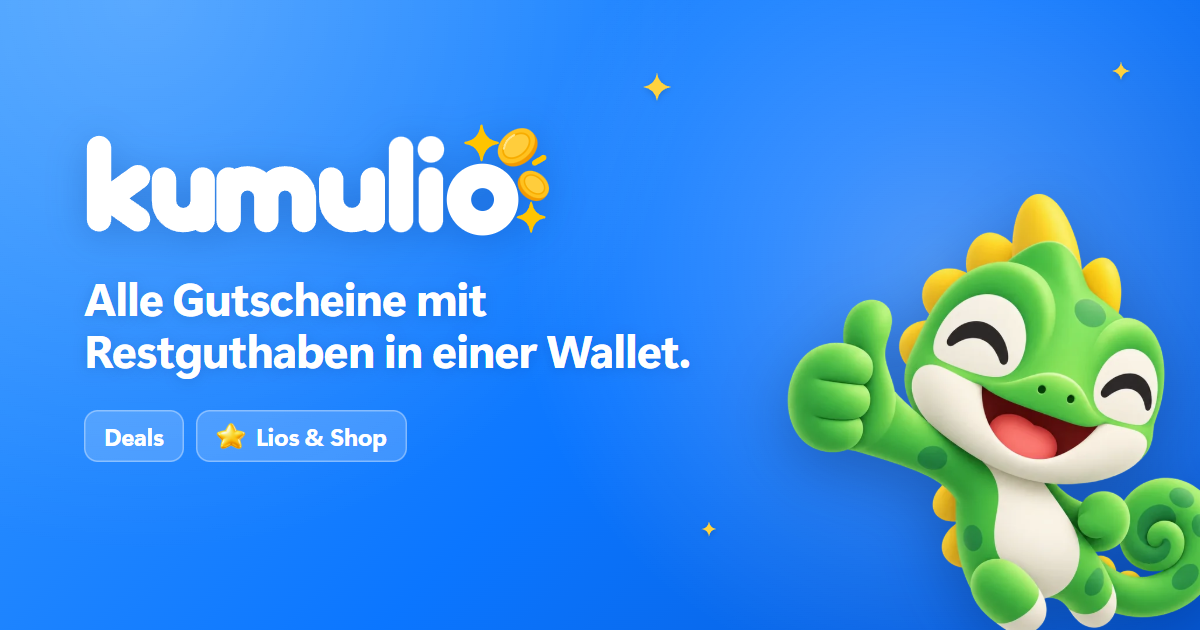
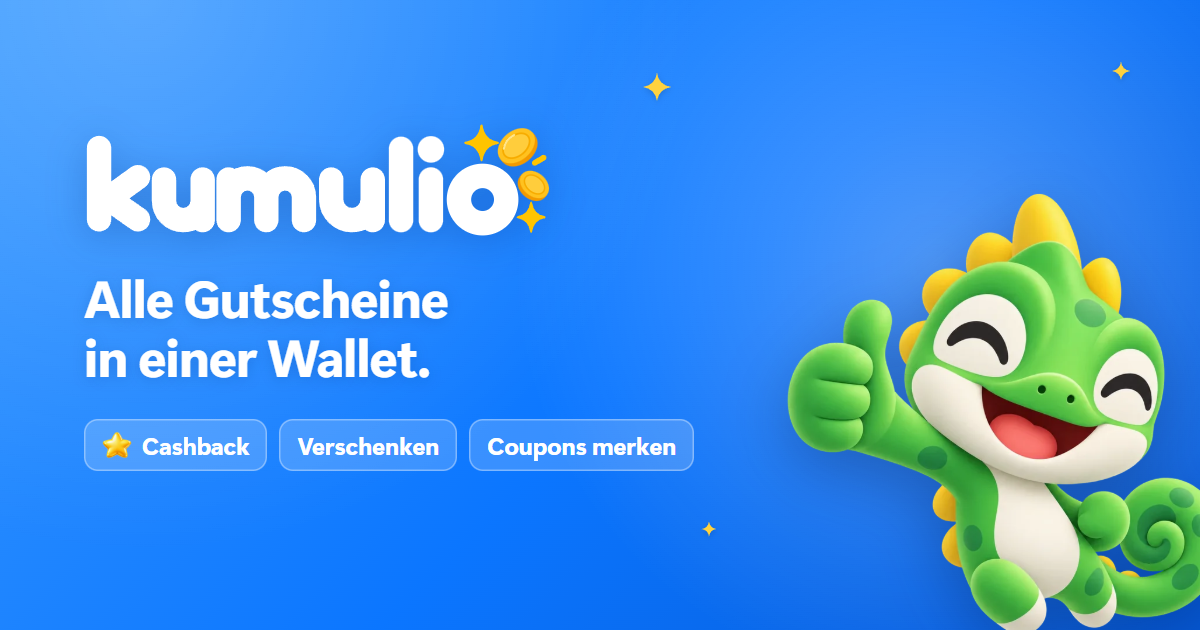
Burger-King-Coupons gross in der App; "Restguthaben" raus aus den Texten
- BK-PDF: in der installierten App oeffnete der Link die PDF in der App,
  ohne Schliessen-Knopf, und Zurueckwischen lud die App neu (Meldung eines
  Nutzers). Jetzt oeffnen die Seiten im Bildbetrachter der App (zoombar,
  X). Die PDF gibt es daneben: in der App ueber Teilen (sichern, drucken),
  im Browser in einem neuen Tab.
- "mit Restguthaben" versteht keiner (Nutzer): raus aus Vorschau, Texten,
  Einfuehrung und Einladung. Stattdessen: alle Gutscheine in einer Wallet,
  Cashback in Lios, Verschenken an Freunde, Coupons merken. Nach dem
  Abbuchen steht "Noch drauf: X €". Neues Vorschaubild og-kumulio-2.jpg.

Changed region(s): [[0.0617, 0.4222, 0.5858, 0.6032], [0.0617, 0.6333, 0.5858, 0.754]]

diff --git a/public/app.js b/public/app.js
@@ -4212,8 +4212,9 @@ function maybeShowOnboarding() {
     $('#ob-step').innerHTML = introFensterHtml('Schön, dass du da bist.', 'Das kann kumulio:')
       + introPunkteHtml([
         ['deals', 'Deals, die sich lohnen', 'Handverlesene Angebote und Preisfehler, ohne Deal-Spam.'],
-        ['wallet', 'Deine Gutschein-Wallet', 'Restguthaben, Code und PIN immer griffbereit.'],
-        ['message', 'Mit Freunden', 'Deals weiterschicken und zusammen sparen.'],
+        ['wallet', 'Alle Gutscheine in einer Wallet', 'Code und PIN immer griffbereit, abbuchen mit einem Tipp.'],
+        ['gift', 'Verschenken an Freunde', 'Gutscheine weitergeben, Coupons merken und teilen.'],
+        ['star', 'Lios und Cashback', 'Jeden Tag Lios sammeln und im Shop gegen Gutscheine tauschen.'],
       ]);
     $('#ob-extra').innerHTML = '';
     const next = $('#ob-next');
@@ -9030,7 +9031,7 @@ function gutscheinBuchen(seite, sign, amt, note) {
   }
   showToast({
     title: sign < 0 ? 'Abbuchung gespeichert' : 'Aufladung gespeichert',
-    text: `Restguthaben: ${euroFmt(v.balance)}`,
+    text: `Noch drauf: ${euroFmt(v.balance)}`,
     success: true,
   }, 3500);
   return '';
@@ -9943,17 +9944,67 @@ function bkPdfBlockHtml(d = bkDaten) {
       ${quelle}</section>`;
   }
   const seiten = (d.seiten || []).slice(0, 4);
+  // Die Seiten oeffnen in der App gross (zoombar, mit X) — nie die PDF selbst:
+  // in der installierten App (iPhone) oeffnete ein Link auf die PDF sie IN der
+  // App, ohne Schliessen-Knopf, und Zurueckwischen lud die App neu (Meldung
+  // eines Nutzers). Die PDF gibt es daneben zum Sichern oder Drucken: in der
+  // App ueber Teilen, im Browser in einem neuen Tab.
   return `<section class="bk-pdf" aria-label="Burger-King-Coupons zum Ausdrucken">
     ${kopf(d.gueltigBis ? `gültig bis ${bkDatum(d.gueltigBis)}` : 'aktuelle Ausgabe')}
     ${seiten.length ? `
-    <a class="bk-pdf-seiten${seiten.length > 1 ? ' mehrere' : ''}" href="${esc(pdf)}" target="_blank" rel="noopener" aria-label="PDF mit den Coupons öffnen">
-      ${seiten.map(s => `<img src="${API_BASE}/bk-coupons/seite-${s.n}${v}" width="${s.w}" height="${s.h}" alt="Seite ${s.n} der Burger-King-Coupons"
-        loading="lazy" decoding="async" style="aspect-ratio:${s.w} / ${s.h}">`).join('')}
-    </a>` : ''}
-    <a class="gd-los bk-pdf-knopf" href="${esc(pdf)}" target="_blank" rel="noopener">PDF ansehen</a>
+    <div class="bk-pdf-seiten${seiten.length > 1 ? ' mehrere' : ''}">
+      ${seiten.map(s => `<button class="bk-pdf-seite" type="button" data-bk-seite aria-label="Seite ${s.n} der Coupons groß ansehen"><img src="${API_BASE}/bk-coupons/seite-${s.n}${v}" width="${s.w}" height="${s.h}" alt=""
+        loading="lazy" decoding="async" style="aspect-ratio:${s.w} / ${s.h}"></button>`).join('')}
+    </div>
+    <button class="gd-los bk-pdf-knopf" type="button" data-bk-gross>Coupons groß ansehen</button>` : ''}
     <p class="bk-pdf-tipp">Nummer an der Kasse nennen oder den QR-Code scannen lassen.</p>
-    ${quelle}</section>`;
+    <p class="bk-pdf-quelle">${isStandalone
+      ? `<button class="bk-pdf-teilen" type="button" data-bk-teilen data-pdf="${esc(pdf)}">PDF sichern oder drucken</button>`
+      : `<a class="bk-pdf-teilen" href="${esc(pdf)}" target="_blank" rel="noopener">PDF öffnen</a>`}
+      · Quelle: <a href="https://www.einfach-sparsam.de/burger-king-coupons-ausdrucken.htm" target="_blank" rel="noopener noreferrer">einfach-sparsam.de</a>${d.groesse ? ` · ${String(Math.max(0.1, Math.round(d.groesse / 1e5) / 10)).replace('.', ',')} MB` : ''}</p>
+    </section>`;
 }
+// Seite gross: der Bildbetrachter der App (zwei Finger zoomen, X schliesst)
+document.addEventListener('click', e => {
+  const seite = e.target.closest?.('[data-bk-seite]');
+  const gross = !seite && e.target.closest?.('[data-bk-gross]');
+  if (!seite && !gross) return;
+  const img = (seite || gross.closest('.bk-pdf'))?.querySelector('img');
+  if (!img) return;
+  zeigeBildGross({ vonEl: img, src: img.currentSrc || img.src });
+});
+// PDF sichern oder drucken (installierte App): ueber das Teilen-Menue des
+// Handys. Teilen muss direkt auf den Tipp folgen — ist die PDF noch nicht
+// geladen, laedt sie erst, dann reicht ein zweiter Tipp.
+let bkPdfDatei = null;
+document.addEventListener('click', async e => {
+  const k = e.target.closest?.('[data-bk-teilen]');
+  if (!k || k.dataset.laedt) return;
+  const teilen = async datei => {
+    try {
+      if (navigator.canShare?.({ files: [datei] })) { await navigator.share({ files: [datei], title: 'Burger-King-Coupons' }); return true; }
+    } catch (err) { if (err?.name === 'AbortError') return true; if (err?.name !== 'NotAllowedError') island('Teilen hat nicht geklappt'); return err?.name !== 'NotAllowedError'; }
+    island('Dein Gerät kann die PDF hier nicht teilen. Die Coupons kannst du oben groß ansehen.');
+    return true;
+  };
+  if (bkPdfDatei) { teilen(bkPdfDatei); return; }
+  k.dataset.laedt = '1';
+  const text = k.textContent;
+  k.textContent = 'PDF wird geladen …';
+  try {
+    const r = await fetch(k.dataset.pdf);
+    if (!r.ok) throw new Error();
+    bkPdfDatei = new File([await r.blob()], 'Burger-King-Coupons.pdf', { type: 'application/pdf' });
+    k.textContent = text;
+    delete k.dataset.laedt;
+    if (!await teilen(bkPdfDatei)) k.textContent = 'PDF bereit: nochmal tippen';
+  } catch {
+    k.textContent = text;
+    delete k.dataset.laedt;
+    island('PDF konnte nicht geladen werden');
+  }
+});
+
 // Metadaten holen (hoechstens einmal pro Minute); true, wenn sich etwas geaendert hat
 async function ladeBkPdf() {
   if (bkLaden === true && Date.now() - (ladeBkPdf.zuletzt || 0) < 60e3) return false;
@@ -13069,7 +13120,7 @@ function inviteUrl() { return 'https://kumulio.de/?ref=' + encodeURIComponent(st
 function shareInvite() {
   if (!state.userName) { island('Zum Einladen bitte anmelden'); return; }
   const url = inviteUrl();
-  const text = 'Komm zu kumulio: alle Gutscheine mit Restguthaben in einer Wallet, die besten Deals und Lios für neue Gutscheine.';
+  const text = 'Komm zu kumulio: alle Gutscheine in einer Wallet, Cashback in Lios, Verschenken an Freunde und Coupons zum Merken.';
   if (navigator.share) { navigator.share({ title: 'kumulio', text, url }).catch(() => { }); return; }
   copyInvite();
 }

diff --git a/public/index.html b/public/index.html
@@ -10,14 +10,14 @@
   <meta name="apple-mobile-web-app-status-bar-style" content="black-translucent">
   <meta name="apple-mobile-web-app-title" content="kumulio">
   <!-- Link-Vorschau (WhatsApp, iMessage, Discord & Co.): Bild, Titel, Claim -->
-  <meta name="description" content="kumulio ist deine Spar-App: alle Gutscheine mit Restguthaben in einer Wallet, die besten Deals und Lios, die du im Shop gegen neue Gutscheine tauschst.">
+  <meta name="description" content="kumulio ist deine Spar-App: alle Gutscheine in einer Wallet, dazu Cashback in Lios, Gutscheine an Freunde verschenken, Coupons merken und die besten Deals.">
   <meta property="og:type" content="website">
   <meta property="og:site_name" content="kumulio">
   <meta property="og:title" content="kumulio: deine Gutschein-Wallet">
-  <meta property="og:description" content="Alle Gutscheine mit Restguthaben in einer Wallet, die besten Deals und Lios, die du gegen neue Gutscheine tauschst.">
+  <meta property="og:description" content="Alle Gutscheine in einer Wallet. Dazu Cashback in Lios, Gutscheine an Freunde verschenken und Coupons merken.">
   <meta property="og:url" content="https://kumulio.de/">
-  <meta property="og:image" content="https://kumulio.de/brand/og-kumulio.jpg">
-  <meta property="og:image:secure_url" content="https://kumulio.de/brand/og-kumulio.jpg">
+  <meta property="og:image" content="https://kumulio.de/brand/og-kumulio-2.jpg">
+  <meta property="og:image:secure_url" content="https://kumulio.de/brand/og-kumulio-2.jpg">
   <meta property="og:image:type" content="image/jpeg">
   <meta property="og:image:alt" content="kumulio: Kumulio das Chamäleon zeigt Daumen hoch, daneben die Wortmarke">
   <meta property="og:image:width" content="1200">
@@ -25,8 +25,8 @@
   <meta property="og:locale" content="de_DE">
   <meta name="twitter:card" content="summary_large_image">
   <meta name="twitter:title" content="kumulio: deine Gutschein-Wallet">
-  <meta name="twitter:description" content="Alle Gutscheine mit Restguthaben in einer Wallet, die besten Deals und Lios, die du gegen neue Gutscheine tauschst.">
-  <meta name="twitter:image" content="https://kumulio.de/brand/og-kumulio.jpg">
+  <meta name="twitter:description" content="Alle Gutscheine in einer Wallet. Dazu Cashback in Lios, Gutscheine an Freunde verschenken und Coupons merken.">
+  <meta name="twitter:image" content="https://kumulio.de/brand/og-kumulio-2.jpg">
   <link rel="icon" href="/brand/kumulio-icon.svg?v=2" type="image/svg+xml">
   <!-- iOS nimmt kein SVG fuer den Home-Bildschirm: echtes PNG noetig -->
   <link rel="apple-touch-icon" sizes="180x180" href="/brand/apple-touch-icon.png?v=2">
@@ -529,15 +529,17 @@
         <div class="intro-fenster">
           <div class="intro-fenster-text">
             <h2>Deine Wallet</h2>
-            <p>Alle Gutscheine an einem Ort, mit Restguthaben.</p>
+            <p>Alle Gutscheine an einem Ort.</p>
           </div>
           <span class="intro-figur" aria-hidden="true"><img src="/brand/kumulio-maskottchen-wallet-480.webp"
             srcset="/brand/kumulio-maskottchen-wallet-480.webp 480w, /brand/kumulio-maskottchen-wallet-960.webp 960w"
             sizes="200px" width="200" height="211" alt="" loading="lazy" decoding="async" draggable="false"></span>
         </div>
         <ul class="intro-punkte">
-          <li><span class="intro-punkt-ico"><svg class="icon"><use href="#i-banknote"/></svg></span>
-            <span class="intro-punkt-text"><b>Restguthaben im Blick</b><span>Abbuchen und Aufladen mit einem Tipp.</span></span></li>
+          <li><span class="intro-punkt-ico"><svg class="icon"><use href="#i-gift"/></svg></span>
+            <span class="intro-punkt-text"><b>An Freunde verschenken</b><span>Gutscheine und Rabattcodes mit einem Tipp weitergeben.</span></span></li>
+          <li><span class="intro-punkt-ico"><svg class="icon"><use href="#i-star"/></svg></span>
+            <span class="intro-punkt-text"><b>Lios und Cashback</b><span>Jeden Tag Lios sammeln und im Shop gegen Gutscheine tauschen.</span></span></li>
           <li><span class="intro-punkt-ico"><svg class="icon"><use href="#i-lock"/></svg></span>
             <span class="intro-punkt-text"><b>Code und PIN griffbereit</b><span>Mit Barcode-Foto, auf Wunsch per PIN gesperrt.</span></span></li>
           <li><span class="intro-punkt-ico"><svg class="icon"><use href="#i-wallet"/></svg></span>

diff --git a/public/look-blaetter.css b/public/look-blaetter.css
@@ -1734,16 +1734,25 @@ body.sparsam #sheet-content #btn-sheet-fav .icon, body.sparsam #sheet-content .a
   scrollbar-width: none; -webkit-tap-highlight-color: transparent;
 }
 .bk-pdf-seiten::-webkit-scrollbar { display: none; }
+.bk-pdf-seite {
+  flex: 0 0 100%; width: 100%; min-width: 0; padding: 0; border: 0; background: none;
+  scroll-snap-align: start; cursor: zoom-in; -webkit-tap-highlight-color: transparent;
+  transition: transform .2s var(--spring);
+}
+.bk-pdf-seite:active { transform: scale(.98); }
+.bk-pdf-seite:focus-visible { outline: 2px solid var(--akzent-text); outline-offset: 2px; border-radius: 12px; }
 .bk-pdf-seiten img {
-  flex: 0 0 100%; width: 100%; height: auto; min-width: 0; display: block;
-  border-radius: 12px; background: var(--karte-2); scroll-snap-align: start;
+  width: 100%; height: auto; display: block;
+  border-radius: 12px; background: var(--karte-2);
   box-shadow: inset 0 0 0 1px var(--linie), 0 1px 3px rgba(16, 24, 32, .08);
 }
 /* Mehrere Seiten: die naechste schaut rechts hervor, dann weiss man, dass es weitergeht */
-.bk-pdf-seiten.mehrere img { flex-basis: 88%; width: 88%; }
+.bk-pdf-seiten.mehrere .bk-pdf-seite { flex-basis: 88%; width: 88%; }
 .bk-pdf .bk-pdf-knopf { margin-top: 14px; text-decoration: none; }
 .bk-pdf-tipp { margin: 10px 2px 0; font-size: .78rem; line-height: 1.45; color: var(--muted); }
 .bk-pdf-hinweis { margin: 12px 2px 0; font-size: .84rem; line-height: 1.45; color: var(--text); }
 .bk-pdf-quelle { margin: 8px 2px 0; font-size: .74rem; color: var(--muted); }
-.bk-pdf-quelle a { color: var(--text); font-weight: 700; text-decoration: none; }
+.bk-pdf-quelle a, .bk-pdf-teilen { color: var(--text); font-weight: 700; text-decoration: none; }
+.bk-pdf-teilen { padding: 0; border: 0; background: none; font: inherit; font-weight: 700; color: var(--akzent-text); cursor: pointer; }
+a.bk-pdf-teilen { color: var(--akzent-text); }
 .bk-pdf-quelle a:active { opacity: .7; }
